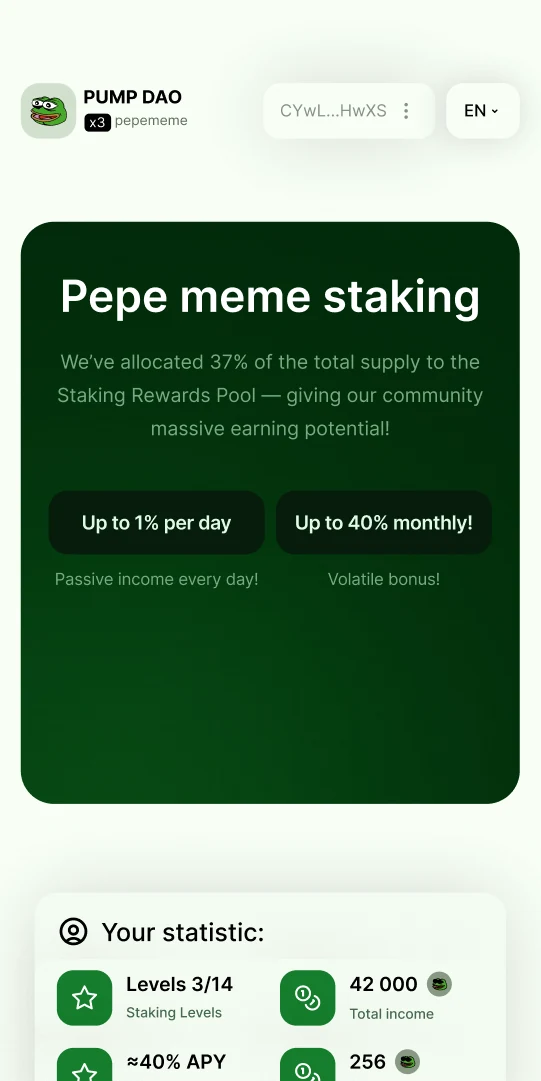
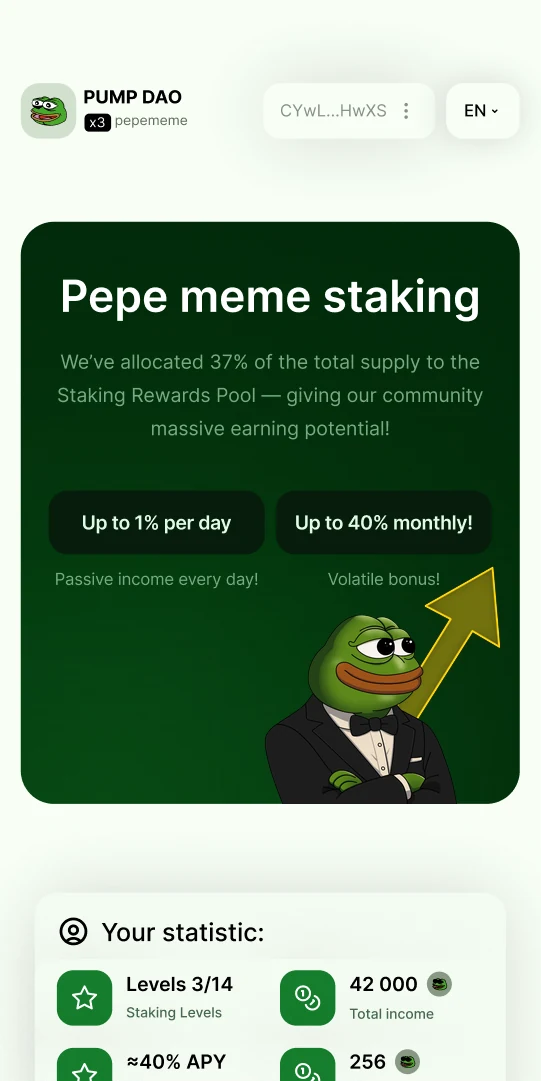
Pump DAO v3.1: петля удержания, 12 уровней по скроллу, колода из 7 состояний карточки, мобильный стейкинг, лягушки в пустых баннерах, мемы «оригинал → моя версия», сильный блок результата
Claude-Session: https://claude.ai/code/session_015qGxWUhs2h3Qk9S43TgfD8

Changed region(s): [[0.4732, 0.519, 0.9464, 0.7632]]

diff --git a/pump.html b/pump.html
@@ -76,52 +76,77 @@
     <p class="note3 rv3">Данные: BitMEX через ForkLog (2025), ZachXBT через Cointelegraph (2024), Chainalysis (2025)</p>
   </section>
 
-  <section class="story c">
-    <div class="story-tx">
-      <h2 class="h2x rv3">Каждый следующий шаг выгоднее продажи</h2>
-      <div class="step3" data-scr="card1">
-        <h3>Стейкинг открывается контрактом</h3>
-        <p>Уровень стейкинга активируется только после завершённого цикла контракта. Так первый же шаг держателя — участие в продукте, а не ожидание листинга.</p>
-        <div class="cardf cf-inline"><img src="assets/pump/v3/card1.webp" alt="Неактивный уровень" width="524" height="1055" loading="lazy"></div>
-      </div>
-      <div class="step3" data-scr="card-active">
-        <h3>+5% к доходности за каждый цикл</h3>
-        <p>Базовые 20% APY и буст за каждый завершённый цикл. Чем дольше держатель в продукте, тем выше его ставка — и это видно прямо на карточке.</p>
-        <div class="cardf cf-inline"><img src="assets/pump/v3/card-active.webp" alt="Активный стейкинг" width="524" height="1055" loading="lazy"></div>
-      </div>
-      <div class="step3" data-scr="card-boost">
-        <h3>Бусты складываются</h3>
-        <p>У каждого буста свой таймер. Держатель видит, сколько уже накопил и что потеряет, если уйдёт сейчас.</p>
-        <div class="cardf cf-inline"><img src="assets/pump/v3/card-boost.webp" alt="Накопленные бусты" width="600" height="1207" loading="lazy"></div>
-      </div>
-      <div class="step3" data-scr="card-ready">
-        <h3>Выбор остаётся за человеком</h3>
-        <p>После 7 дней — restake с бустом или вывод. Никого не блокируем, но restake даёт заметно больше. 80% держателей выбрали его.</p>
-        <div class="cardf cf-inline"><img src="assets/pump/v3/card-ready.webp" alt="Restake или вывод" width="524" height="1055" loading="lazy"></div>
-      </div>
+  <section class="c loop">
+    <h2 class="h2x rv3">Каждый следующий шаг выгоднее продажи</h2>
+    <p class="body3 rv3">Главное решение кейса — петля удержания. Держатель никогда не заперт: вывести можно в любой момент. Но каждый круг петли делает следующий выгоднее, и это видно в цифрах прямо на карточке.</p>
+    <div class="loop-wrap rv3" id="loopw">
+      <svg class="loop-svg" viewBox="0 0 760 420" aria-hidden="true">
+        <defs><marker id="ah" viewBox="0 0 10 10" refX="8" refY="5" markerWidth="7" markerHeight="7" orient="auto"><path d="M0 0 10 5 0 10z" fill="#5f8f4e"/></marker></defs>
+        <path id="lp" class="ring" d="M380 48 C 590 48 660 120 660 210 C 660 300 590 372 380 372 C 170 372 100 300 100 210 C 100 120 170 48 380 48 Z"/>
+        <path class="exit" d="M660 250 C 690 290 720 300 748 300" marker-end="url(#ah)"/>
+        <circle class="dot" r="7"><animateMotion dur="7s" repeatCount="indefinite" rotate="auto"><mpath href="#lp"/></animateMotion></circle>
+      </svg>
+      <div class="node n1"><b>Контракт</b><span>замораживает токены</span></div>
+      <div class="node n2"><b>Цикл завершён</b><span>открыт слот и буст +5%</span></div>
+      <div class="node n3 hi"><b>Стейкинг 7 дней</b><span>20% APY + все бусты</span></div>
+      <div class="node n4"><b>Restake</b><span>уровень +1, буст сохраняется</span></div>
+      <div class="exitl">Вывод в любой момент<br><em>накопленный буст сгорает</em></div>
+      <img class="loop-frog" src="assets/pump/v3/frog-think.webp" alt="" width="700" height="700" loading="lazy">
     </div>
-    <div class="story-vis" aria-hidden="true">
-      <div class="story-pin">
-        <div class="cardf" id="storyScr">
-          <img class="on" data-k="card1" src="assets/pump/v3/card1.webp" alt="" width="524" height="1055">
-          <img data-k="card-active" src="assets/pump/v3/card-active.webp" alt="" width="524" height="1055">
-          <img data-k="card-boost" src="assets/pump/v3/card-boost.webp" alt="" width="600" height="1207">
-          <img data-k="card-ready" src="assets/pump/v3/card-ready.webp" alt="" width="524" height="1055">
-        </div>
-      </div>
+    <ol class="loop-m rv3" aria-label="Петля удержания">
+      <li><b>Контракт</b><span>замораживает токены</span></li>
+      <li><b>Цикл завершён</b><span>открыт слот стейкинга и буст +5%</span></li>
+      <li class="hi"><b>Стейкинг 7 дней</b><span>20% APY + все накопленные бусты</span></li>
+      <li><b>Restake</b><span>уровень +1, буст сохраняется — и снова к контракту</span></li>
+      <li class="ex"><b>Или вывод в любой момент</b><span>накопленный буст сгорает</span></li>
+    </ol>
+  </section>
+
+  <section class="c ladder-s" id="ladderS">
+    <div class="ladder-tx">
+      <h2 class="h2x rv3">12 уровней — 12 причин остаться</h2>
+      <p class="body3 rv3">Каждый restake поднимает держателя на уровень выше и добавляет +5% к доходности. Если вывести токены, лестница начинается заново. К четвёртому циклу та же неделя приносит почти вдвое больше: ≈384 → ≈671 PEPEMEME.</p>
+      <div class="lvl rv3"><span>Уровень</span><b id="lvlN">01</b><span>/ 12</span><i id="lvlB">буст +0%</i></div>
+    </div>
+    <div class="ladder rv3" id="ladder" aria-hidden="true">
+      <i style="--i:1"></i><i style="--i:2"></i><i style="--i:3"></i><i style="--i:4"></i><i style="--i:5"></i><i style="--i:6"></i><i style="--i:7"></i><i style="--i:8"></i><i style="--i:9"></i><i style="--i:10"></i><i style="--i:11"></i><i style="--i:12"></i>
     </div>
   </section>
 
-  <section class="c econ">
-    <div class="econ-tx">
-      <h2 class="h2x rv3">К четвёртому циклу та же неделя приносит почти вдвое больше</h2>
-      <p class="body3 rv3">Пул 100 000 PEPEMEME, 7 дней, restake каждый раз. Если держатель выводит, накопленный буст сгорает и доходность снова 20%.</p>
+  <section class="c deck-s">
+    <div class="deck-tx">
+      <h2 class="h2x rv3">Одна карточка — семь состояний</h2>
+      <p class="body3 rv3">Уровень стейкинга живёт в одной карточке. На любом этапе держатель видит, что происходит и что сделать дальше — без отдельных страниц и инструкций.</p>
+      <ol class="states rv3" id="states">
+        <li class="on">Неактивен — сначала нужен контракт</li>
+        <li>Подсказка: как активировать стейкинг</li>
+        <li>Цикл контракта ещё не завершён</li>
+        <li>Активен</li>
+        <li>Активен с бустом</li>
+        <li>Бусты складываются, у каждого свой таймер</li>
+        <li>Завершён: restake или вывод</li>
+      </ol>
     </div>
-    <div class="bars rv3" id="bars" aria-label="Доход за 7 дней по циклам">
-      <div class="bar" style="--h:.40"><b>≈ 384</b><i></i><span>1 цикл · 20%</span></div>
-      <div class="bar" style="--h:.50"><b>≈ 479</b><i></i><span>2 цикл · 25%</span></div>
-      <div class="bar" style="--h:.60"><b>≈ 575</b><i></i><span>3 цикл · 30%</span></div>
-      <div class="bar hi" style="--h:.70"><b>≈ 671</b><i></i><span>4 цикл · 35%</span></div>
+    <div class="deck" id="deck" role="button" tabindex="0" aria-label="Следующее состояние карточки">
+      <img src="assets/pump/v3/card1.webp" alt="Неактивен" width="524" height="1055" loading="lazy">
+      <img src="assets/pump/v3/card-how.webp" alt="Как активировать" width="524" height="1055" loading="lazy">
+      <img src="assets/pump/v3/card-nocycle.webp" alt="Цикл не завершён" width="524" height="1055" loading="lazy">
+      <img src="assets/pump/v3/card-nobonus.webp" alt="Активен" width="524" height="1055" loading="lazy">
+      <img src="assets/pump/v3/card-active.webp" alt="Активен с бустом" width="524" height="1055" loading="lazy">
+      <img src="assets/pump/v3/card-boost.webp" alt="Бусты" width="600" height="1207" loading="lazy">
+      <img src="assets/pump/v3/card-ready.webp" alt="Завершён" width="524" height="1055" loading="lazy">
+    </div>
+  </section>
+
+  <section class="c mob-s">
+    <div class="mob-vis rv3">
+      <div class="glow3"></div>
+      <div class="ph mob-ph"><div class="ph-scr lt"><img src="assets/pump/v3/m-staking.webp" alt="Стейкинг на телефоне" width="541" height="1081" loading="lazy"></div></div>
+      <span class="chip3 c1">+5% APY за цикл</span><span class="chip3 c2">до 1% в день</span><span class="chip3 c3">37% предложения в пуле</span>
+    </div>
+    <div class="mob-tx">
+      <h2 class="h2x rv3">Стейкинг в кармане</h2>
+      <p class="body3 rv3">56 мобильных экранов: матрица, бусты и restake работают так же, как на десктопе, а модалки превращаются в нижние листы — без потери ни одного состояния.</p>
     </div>
   </section>
 
@@ -161,24 +186,39 @@
 
   <section class="c memes">
     <h2 class="h2x rv3">Мемы вместо инструкций</h2>
-    <p class="body3 rv3">Все иллюстрации нарисовал я. Каждая отсылает к мему, который комьюнити узнаёт без объяснений — поэтому механику не приходится расшифровывать.</p>
-    <div class="meme-grid">
-      <img class="rv3" src="assets/pump/meme-choice.webp" alt="#you choice — restake или вывод" width="540" height="540" loading="lazy">
-      <img class="rv3" src="assets/pump/meme-stonks.webp" alt="#stonks — рост дохода" width="540" height="540" loading="lazy">
-      <img class="rv3" src="assets/pump/meme-staking.webp" alt="#staking — прикидывает выгоду" width="540" height="540" loading="lazy">
-      <img class="rv3" src="assets/pump/meme-congrats.webp" alt="#congrats — завершённый цикл" width="540" height="540" loading="lazy">
-    </div>
+    <p class="body3 rv3">Комьюнити мем-токена не читает правила — оно узнаёт мемы. Я взял четыре мема, которые все знают, и перерисовал их под механику: картинка сама объясняет, что происходит на экране.</p>
+    <div class="mpairs"><div class="mp rv3"><figure class="mo" data-orig="choice"><span class="mo-ph">«Матрица»: красная или синяя таблетка</span><figcaption>Оригинал</figcaption></figure><svg class="marr" viewBox="0 0 60 24" aria-hidden="true"><path d="M2 12h52M44 3l10 9-10 9"/></svg><figure class="mm"><img src="assets/pump/meme-choice.webp" alt="#you choice" width="540" height="540" loading="lazy"><figcaption>#you choice — Restake или вывод — выбор за держателем</figcaption></figure></div><div class="mp rv3"><figure class="mo" data-orig="stonks"><span class="mo-ph">Stonks</span><figcaption>Оригинал</figcaption></figure><svg class="marr" viewBox="0 0 60 24" aria-hidden="true"><path d="M2 12h52M44 3l10 9-10 9"/></svg><figure class="mm"><img src="assets/pump/meme-stonks.webp" alt="#stonks" width="540" height="540" loading="lazy"><figcaption>#stonks — Доход растёт на каждом уровне</figcaption></figure></div><div class="mp rv3"><figure class="mo" data-orig="staking"><span class="mo-ph">Roll Safe «Think about it»</span><figcaption>Оригинал</figcaption></figure><svg class="marr" viewBox="0 0 60 24" aria-hidden="true"><path d="M2 12h52M44 3l10 9-10 9"/></svg><figure class="mm"><img src="assets/pump/meme-staking.webp" alt="#staking" width="540" height="540" loading="lazy"><figcaption>#staking — Держатель прикидывает выгоду стейкинга</figcaption></figure></div><div class="mp rv3"><figure class="mo" data-orig="congrats"><span class="mo-ph">Тост Ди Каприо</span><figcaption>Оригинал</figcaption></figure><svg class="marr" viewBox="0 0 60 24" aria-hidden="true"><path d="M2 12h52M44 3l10 9-10 9"/></svg><figure class="mm"><img src="assets/pump/meme-congrats.webp" alt="#congrats" width="540" height="540" loading="lazy"><figcaption>#congrats — Цикл контракта завершён</figcaption></figure></div></div>
   </section>
 
   <section class="c outro">
-    <h2 class="h2x big rv3">Результат</h2>
-    <div class="res rv3">
-      <div class="rc"><b>65%</b><span>предложения токена работало внутри продукта, пока рынок продаёт 50–90% за неделю</span></div>
-      <div class="rc"><b>8 000</b><span>контрактов за первый месяц, 5 000+ держателей</span></div>
-      <div class="rc wide"><b>116 экранов</b><span>43 флоу и 163 состояния переданы в разработку за месяц</span></div>
+    <h2 class="h2x big rv3">Результат: капитализация не обвалилась</h2>
+    <p class="body3 rv3 narrow">Через месяц после пресейла я сравнил поведение держателей с тем, что обычно происходит на рынке.</p>
+    <div class="vs rv3" id="vs">
+      <div class="vs-big"><b>~$2 млн</b><span>капитализации сохранено после пресейла</span></div>
+      <div class="vs-chart">
+        <svg viewBox="0 0 600 260" preserveAspectRatio="none" aria-hidden="true">
+          <path class="g0" d="M0 130H600"/>
+          <path class="mk" d="M0 120 C 60 110 90 150 130 190 S 230 236 330 244 S 520 250 600 252"/>
+          <path class="pd" d="M0 120 C 60 112 100 140 150 132 S 260 108 330 112 S 480 104 600 106"/>
+        </svg>
+        <span class="vl l0">пресейл</span><span class="vl l1">Pump DAO <b>+10%</b> к цене пресейла через месяц</span><span class="vl l2">обычный пресейл Solana <b>до −99%</b></span>
+        <div class="vs-x"><span>старт</span><span>неделя 1</span><span>месяц 1</span></div>
+      </div>
+    </div>
+    <div class="res res6 rv3">
+      <div class="rc"><b>65%</b><span>предложения токена работало в стейкинге, пока рынок продаёт 50–90% за неделю</span></div>
+      <div class="rc"><b>80+%</b><span>держателей выбрали restake вместо вывода</span></div>
+      <div class="rc"><b>5 000+</b><span>держателей после пресейла</span></div>
+      <div class="rc"><b>8 000</b><span>контрактов за первый месяц</span></div>
+      <div class="rc"><b>15%</b><span>новых участников пришли по реферальным ссылкам</span></div>
+      <div class="rc"><b>1 месяц</b><span>от идеи механики до продакшена</span></div>
+    </div>
+    <div class="scope rv3">
+      <p>За этот месяц один дизайнер передал в разработку</p>
+      <div><span><b>116</b> экранов</span><span><b>43</b> флоу</span><span><b>163</b> состояния</span><span><b>21</b> баннер</span><span><b>8</b> языков</span><span><b>11</b> стикеров</span></div>
     </div>
     <div class="learn rv3">
-      <div><h3>Чему научил проект</h3><p>Начинать с бизнес-риска, а не с экранов. Удержание перестало быть блокировкой и стало причиной остаться.</p></div>
+      <div><h3>Чему научил проект</h3><p>Начинать с бизнес-риска, а не с экранов. Удержание перестало быть блокировкой и стало причиной остаться — и это решение сделала механика в паре с мемным визуалом.</p></div>
       <div><h3>Что сделал бы иначе</h3><p>Заложил бы события аналитики на каждый шаг матрицы с первого дня, чтобы видеть, на каком уровне держатели уходят.</p></div>
     </div>
   </section>

diff --git a/pump-v3.css b/pump-v3.css
@@ -90,3 +90,87 @@
   .pd .fan .ph{--w:210px;margin-left:-105px}
   .meme-grid{grid-template-columns:repeat(4,1fr);gap:16px;margin-top:48px}
 }
+
+/* ===== v3.1: loop, ladder, deck, mobile, memes, results ===== */
+.loop{padding-top:var(--sp)}
+.loop-wrap{position:relative;margin-top:40px;aspect-ratio:760/420;max-width:900px;border-radius:28px;background:#0d0d10;border:1px solid #1a1a1f;overflow:hidden}
+.loop-svg{position:absolute;inset:0;width:100%;height:100%}
+.loop-svg .ring{fill:none;stroke:#2e4a26;stroke-width:2;stroke-dasharray:6 7}
+.loop-svg .exit{fill:none;stroke:#5f8f4e;stroke-width:2;stroke-dasharray:4 6}
+.loop-svg .dot{fill:#9be37f;filter:drop-shadow(0 0 8px #6fd34f)}
+.node{position:absolute;transform:translate(-50%,-50%);padding:10px 14px;border-radius:14px;background:#151a13;border:1px solid #2e4a26;text-align:center;white-space:nowrap}
+.node b{display:block;font-size:14px;font-weight:500;letter-spacing:-.03em}
+.node span{display:block;font-size:11px;color:#8aa182;margin-top:2px;letter-spacing:-.01em}
+.node.hi{background:#2d6b1c;border-color:#6fd34f}.node.hi span{color:#d6f5c8}
+.n1{left:50%;top:11.4%}.n2{left:86.8%;top:50%}.n3{left:50%;top:88.6%}.n4{left:13.2%;top:50%}
+.exitl{position:absolute;right:2%;top:74%;font-size:11px;color:#c9c9cf;text-align:right;line-height:1.3}.exitl em{font-style:normal;color:#ff8a8a}
+.loop-frog{position:absolute;left:50%;top:50%;width:25%;height:auto;transform:translate(-50%,-50%);pointer-events:none;filter:drop-shadow(0 20px 30px rgba(0,0,0,.6))}
+.ladder-s{padding-top:var(--sp);display:grid;gap:36px}
+.lvl{display:flex;align-items:baseline;gap:8px;margin-top:28px;font-size:15px;color:var(--mut3)}
+.lvl b{font-size:56px;font-weight:500;color:#fff;letter-spacing:-.05em;font-variant-numeric:tabular-nums;line-height:1}
+.lvl i{font-style:normal;margin-left:auto;padding:6px 12px;border-radius:20px;background:#1d3a14;color:#9be37f;font-size:14px}
+.ladder{display:grid;grid-template-columns:repeat(12,1fr);gap:6px;align-items:end;height:260px;padding:24px 18px;border-radius:24px;background:#0d0d10;border:1px solid #1a1a1f}
+.ladder i{display:block;height:calc(14% + var(--i)*7%);border-radius:6px 6px 3px 3px;background:#1c2a17;transition:background .4s ease,box-shadow .4s ease}
+.ladder i.on{background:linear-gradient(180deg,#8fe66f,#3f9a2b)}
+.ladder i.cur{box-shadow:0 0 24px rgba(143,230,111,.6)}
+.deck-s{padding-top:var(--sp);display:grid;gap:40px}
+.states{list-style:none;margin:28px 0 0;padding:0;display:grid;gap:4px;counter-reset:s}
+.states li{counter-increment:s;display:flex;gap:12px;padding:9px 0;font-size:15px;color:#5d5d66;letter-spacing:-.02em;border-top:1px solid #17171b;transition:color .4s ease;cursor:pointer}
+.states li::before{content:counter(s,decimal-leading-zero);font-variant-numeric:tabular-nums;color:#3e3e46;transition:color .4s}
+.states li.on{color:#fff}.states li.on::before{color:var(--ac2)}
+.deck{position:relative;justify-self:center;width:250px;aspect-ratio:524/1055;cursor:pointer;outline:0}
+.deck img{position:absolute;inset:0;width:100%;height:100%;object-fit:cover;object-position:top;border-radius:16px;
+  box-shadow:0 0 0 1px rgba(255,255,255,.06),0 30px 60px -20px rgba(0,0,0,.85);transition:transform .8s cubic-bezier(.2,.8,.2,1),opacity .6s ease;will-change:transform}
+.mob-s{padding-top:var(--sp);display:grid;gap:36px}
+.mob-vis{position:relative;height:525px;display:grid;place-items:center}
+.mob-ph{--w:250px;z-index:2}
+.chip3{position:absolute;z-index:3;padding:8px 14px;border-radius:20px;background:rgba(20,30,16,.85);border:1px solid #2e4a26;-webkit-backdrop-filter:blur(8px);backdrop-filter:blur(8px);font-size:13px;color:#d6f5c8;letter-spacing:-.02em;animation:float3 6s ease-in-out infinite}
+.chip3.c1{left:2%;top:22%}.chip3.c2{right:0;top:44%;animation-delay:-2s}.chip3.c3{left:4%;bottom:16%;animation-delay:-4s}
+.mpairs{display:grid;gap:28px;margin-top:40px}
+.mp{display:grid;grid-template-columns:1fr 44px 1fr;align-items:center;gap:10px}
+.mp figure{margin:0;position:relative}
+.mp img,.mo-ph{display:block;width:100%;aspect-ratio:1;border-radius:18px;object-fit:cover}
+.mo-ph{display:grid;place-items:center;padding:14px;text-align:center;background:#141418;border:1px dashed #33333b;color:#8a8a93;font-size:13px;line-height:1.3}
+.mo img{filter:grayscale(.15)}
+.mp figcaption{margin-top:10px;font-size:13px;line-height:1.35;color:var(--mut3);letter-spacing:-.02em}
+.marr{width:44px;height:18px}.marr path{fill:none;stroke:#6fd34f;stroke-width:2;stroke-linecap:round;stroke-linejoin:round;stroke-dasharray:80;stroke-dashoffset:80;transition:stroke-dashoffset .9s ease .3s}
+.mp.in .marr path{stroke-dashoffset:0}
+.vs{display:grid;gap:20px;margin-top:40px}
+.vs-big b{display:block;font-size:64px;font-weight:500;letter-spacing:-.06em;line-height:1;background:linear-gradient(90deg,#fff,#9be37f);-webkit-background-clip:text;background-clip:text;color:transparent}
+.vs-big span{display:block;margin-top:10px;font-size:15px;color:var(--mut3)}
+.vs-chart{position:relative;height:280px;border-radius:24px;background:#0d0d10;border:1px solid #1a1a1f;overflow:hidden}
+.vs-chart svg{position:absolute;left:0;right:0;top:10px;width:100%;height:220px}
+.vs-chart path{fill:none;vector-effect:non-scaling-stroke}
+.vs-chart .g0{stroke:#24242a;stroke-dasharray:4 6;stroke-width:1}
+.vs-chart .mk{stroke:#ff5c5c;stroke-width:2;stroke-dasharray:1000;stroke-dashoffset:1000;transition:stroke-dashoffset 2s cubic-bezier(.6,.05,.3,1)}
+.vs-chart .pd{stroke:#8fe66f;stroke-width:3;stroke-dasharray:1000;stroke-dashoffset:1000;transition:stroke-dashoffset 2s cubic-bezier(.6,.05,.3,1) .4s;filter:drop-shadow(0 0 6px rgba(143,230,111,.6))}
+.vs.in .mk,.vs.in .pd{stroke-dashoffset:0}
+.vl{position:absolute;font-size:12px;letter-spacing:-.02em;padding:4px 9px;border-radius:14px;background:#1b1b20;color:#cfcfd6;opacity:0;transition:opacity .6s ease 1.8s}
+.vs.in .vl{opacity:1}
+.vl b{font-weight:500}.l0{left:12px;top:18px}.l1{right:12px;top:16%;background:#1d3a14;color:#c9f5b5}.l2{right:12px;bottom:58px;background:#3a1517;color:#ffb0b0}
+.vs-x{position:absolute;left:14px;right:14px;bottom:14px;display:flex;justify-content:space-between;font-size:11px;color:#55555c}
+.res6{grid-template-columns:1fr 1fr}
+.scope{margin-top:48px;padding:24px;border-radius:24px;background:linear-gradient(160deg,#16260f,#0d0d10 70%);border:1px solid #23361b}
+.scope p{font-size:15px;color:#a9c99c;letter-spacing:-.02em}
+.scope div{display:flex;flex-wrap:wrap;gap:10px 22px;margin-top:14px}
+.scope span{font-size:15px;color:var(--mut3);letter-spacing:-.02em}.scope span b{font-size:30px;font-weight:500;color:#fff;letter-spacing:-.05em;margin-right:4px}
+@media (max-width:899px){.node{padding:6px 9px;border-radius:10px}.node b{font-size:11px}.node span{display:none}.exitl{font-size:9px;top:60%}}
+@media (min-width:900px){
+  .ladder-s,.deck-s,.mob-s{grid-template-columns:1fr 1fr;align-items:center;gap:60px}
+  .ladder{height:400px;padding:32px 28px;gap:10px}
+  .deck{width:320px}
+  .mob-s .mob-vis{order:0;height:630px}.mob-ph{--w:300px}
+  .mpairs{grid-template-columns:1fr 1fr;gap:48px 56px}
+  .vs{grid-template-columns:.8fr 1.2fr;align-items:center;gap:48px}.vs-big b{font-size:96px}
+  .vs-chart{height:340px}.vs-chart svg{height:270px}
+  .res6{grid-template-columns:repeat(3,1fr)}
+  .scope{padding:32px 36px}.scope span b{font-size:44px}
+}
+
+.loop-m{display:none;list-style:none;margin:32px 0 0;padding:0 0 0 28px;position:relative}
+.loop-m::before{content:"";position:absolute;left:8px;top:22px;bottom:96px;width:14px;border:1.5px dashed #3e5a35;border-right:0;border-radius:14px 0 0 14px}
+.loop-m li{position:relative;margin-bottom:10px;padding:12px 14px;border-radius:14px;background:#151a13;border:1px solid #2e4a26}
+.loop-m li b{display:block;font-size:15px;font-weight:500;letter-spacing:-.03em}.loop-m li span{display:block;font-size:13px;color:#8aa182;margin-top:2px}
+.loop-m li.hi{background:#2d6b1c;border-color:#6fd34f}.loop-m li.hi span{color:#d6f5c8}
+.loop-m li.ex{background:transparent;border-style:dashed;border-color:#5a2a2c;margin-top:18px}.loop-m li.ex span{color:#ff8a8a}
+@media (max-width:899px){.loop-wrap{display:none}.loop-m{display:block}}

diff --git a/pump-v3.js b/pump-v3.js
@@ -34,3 +34,27 @@
   const br=document.querySelector('.pd-br');
   if(br&&!RM)addEventListener('scroll',()=>{const y=Math.min(scrollY,700);br.style.transform=`translate3d(0,${(y*-.08).toFixed(1)}px,0) rotate(${(-2+y*.004).toFixed(2)}deg)`;},{passive:true});
 })();
+/* ===== v3.1 motion ===== */
+(function(){
+  const RM=matchMedia('(prefers-reduced-motion: reduce)').matches;
+  const once=(el,fn,th=.35)=>{if(!el)return;new IntersectionObserver(([e],o)=>{if(e.isIntersecting){o.disconnect();fn(el);}},{threshold:th}).observe(el);};
+  once(document.getElementById('vs'),el=>el.classList.add('in'),.35);
+  document.querySelectorAll('.mp').forEach(m=>once(m,el=>el.classList.add('in'),.4));
+  /* ladder: levels light up with scroll progress through the section */
+  const sec=document.getElementById('ladderS'),bars=[...document.querySelectorAll('#ladder i')],N=document.getElementById('lvlN'),B=document.getElementById('lvlB');
+  let last=-1;function lad(){if(!sec)return;const r=sec.getBoundingClientRect(),vh=innerHeight;let p=(vh*.85-r.top)/(r.height*.9+vh*.15);p=Math.max(0,Math.min(1,p));
+    const n=RM?12:Math.max(1,Math.round(p*12));if(n===last)return;last=n;bars.forEach((b,i)=>{b.classList.toggle('on',i<n);b.classList.toggle('cur',i===n-1);});
+    N.textContent=String(n).padStart(2,'0');B.textContent='буст +'+((n-1)*5)+'%';}
+  addEventListener('scroll',lad,{passive:true});lad();
+  /* deck: top card flies to the back */
+  const deck=document.getElementById('deck'),cards=deck?[...deck.querySelectorAll('img')]:[],lis=[...document.querySelectorAll('#states li')];let top=0,dt=0,dvis=false;
+  function lay(){cards.forEach((c,i)=>{const k=(i-top+cards.length)%cards.length;c.style.zIndex=cards.length-k;
+    c.style.transform=k===0?'translate3d(0,0,0)':`translate3d(${k*14}px,${k*-10}px,0) scale(${1-k*.04}) rotate(${k*2}deg)`;c.style.opacity=k>3?0:1;});
+    lis.forEach((l,i)=>l.classList.toggle('on',i===top));}
+  function next(){const c=cards[top];c.style.transform='translate3d(-120%,20px,0) rotate(-12deg)';c.style.opacity=0;
+    setTimeout(()=>{top=(top+1)%cards.length;lay();},380);}
+  function auto(){clearTimeout(dt);if(!dvis||RM)return;dt=setTimeout(()=>{next();auto();},2600);}
+  if(deck){lay();deck.addEventListener('click',()=>{next();auto();});deck.addEventListener('keydown',e=>{if(e.key==='Enter'||e.key===' '){e.preventDefault();next();auto();}});
+    lis.forEach((l,i)=>l.addEventListener('click',()=>{top=i;lay();auto();}));
+    new IntersectionObserver(([e])=>{dvis=e.isIntersecting;auto();},{threshold:.4}).observe(deck);}
+})();
